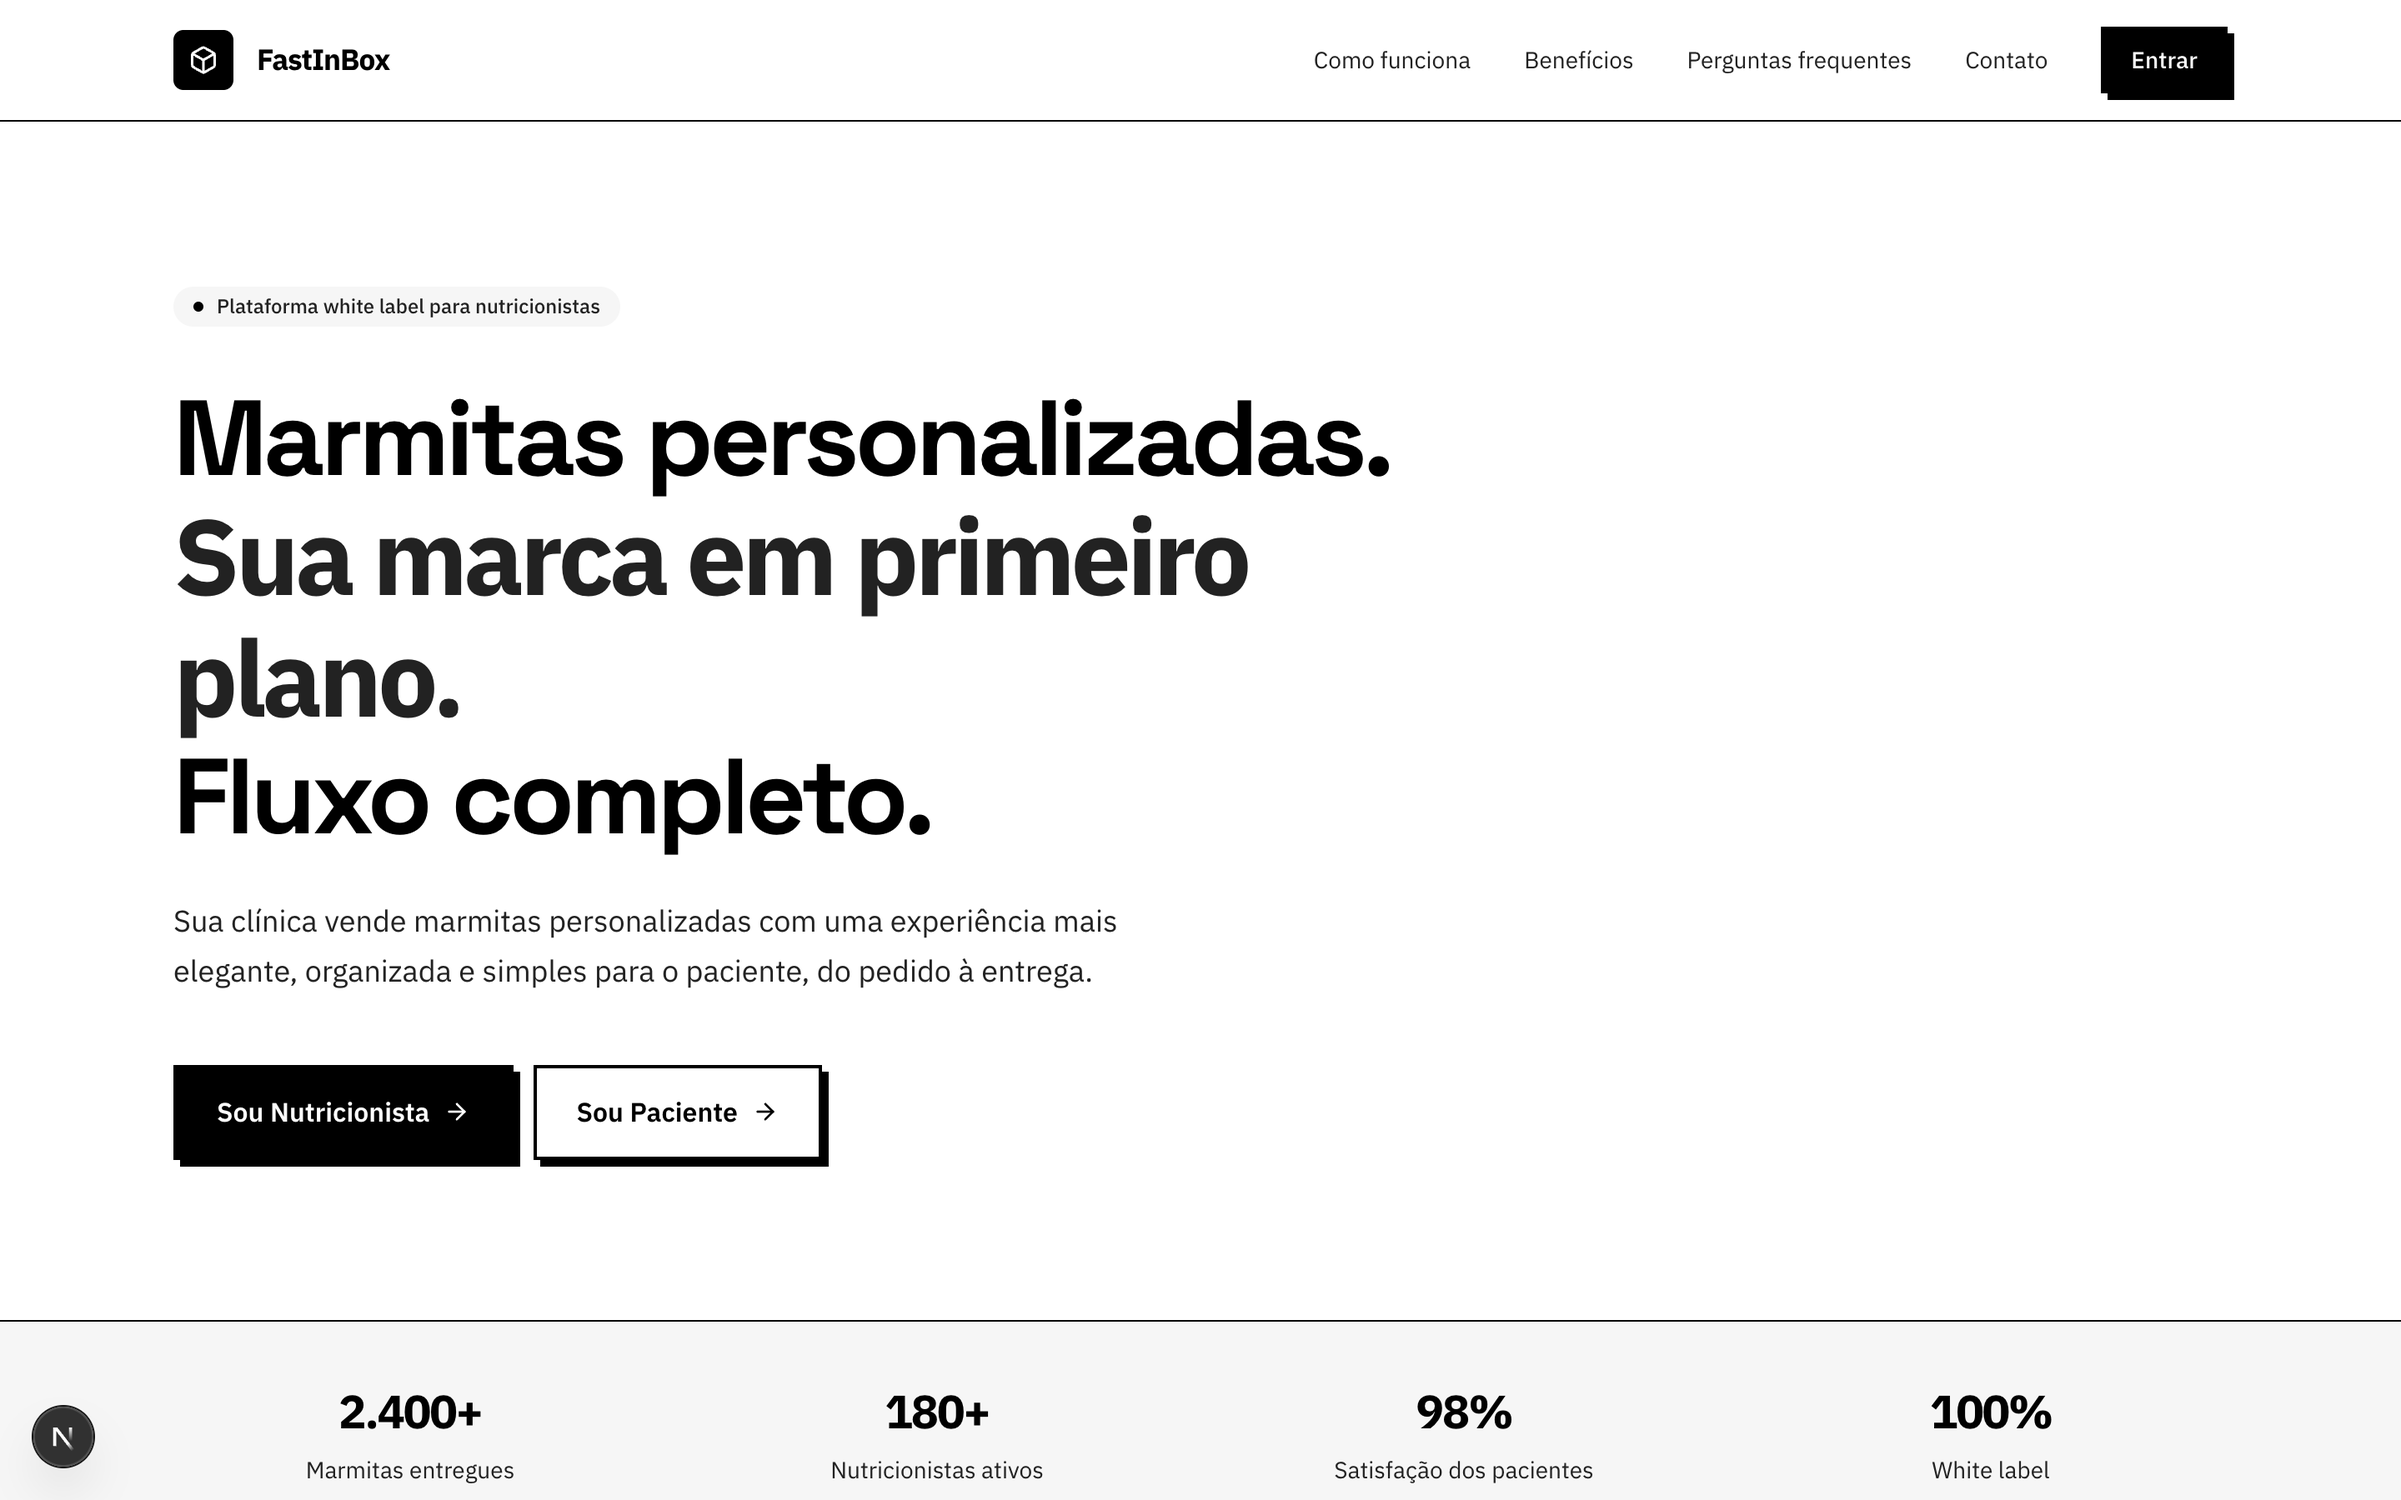
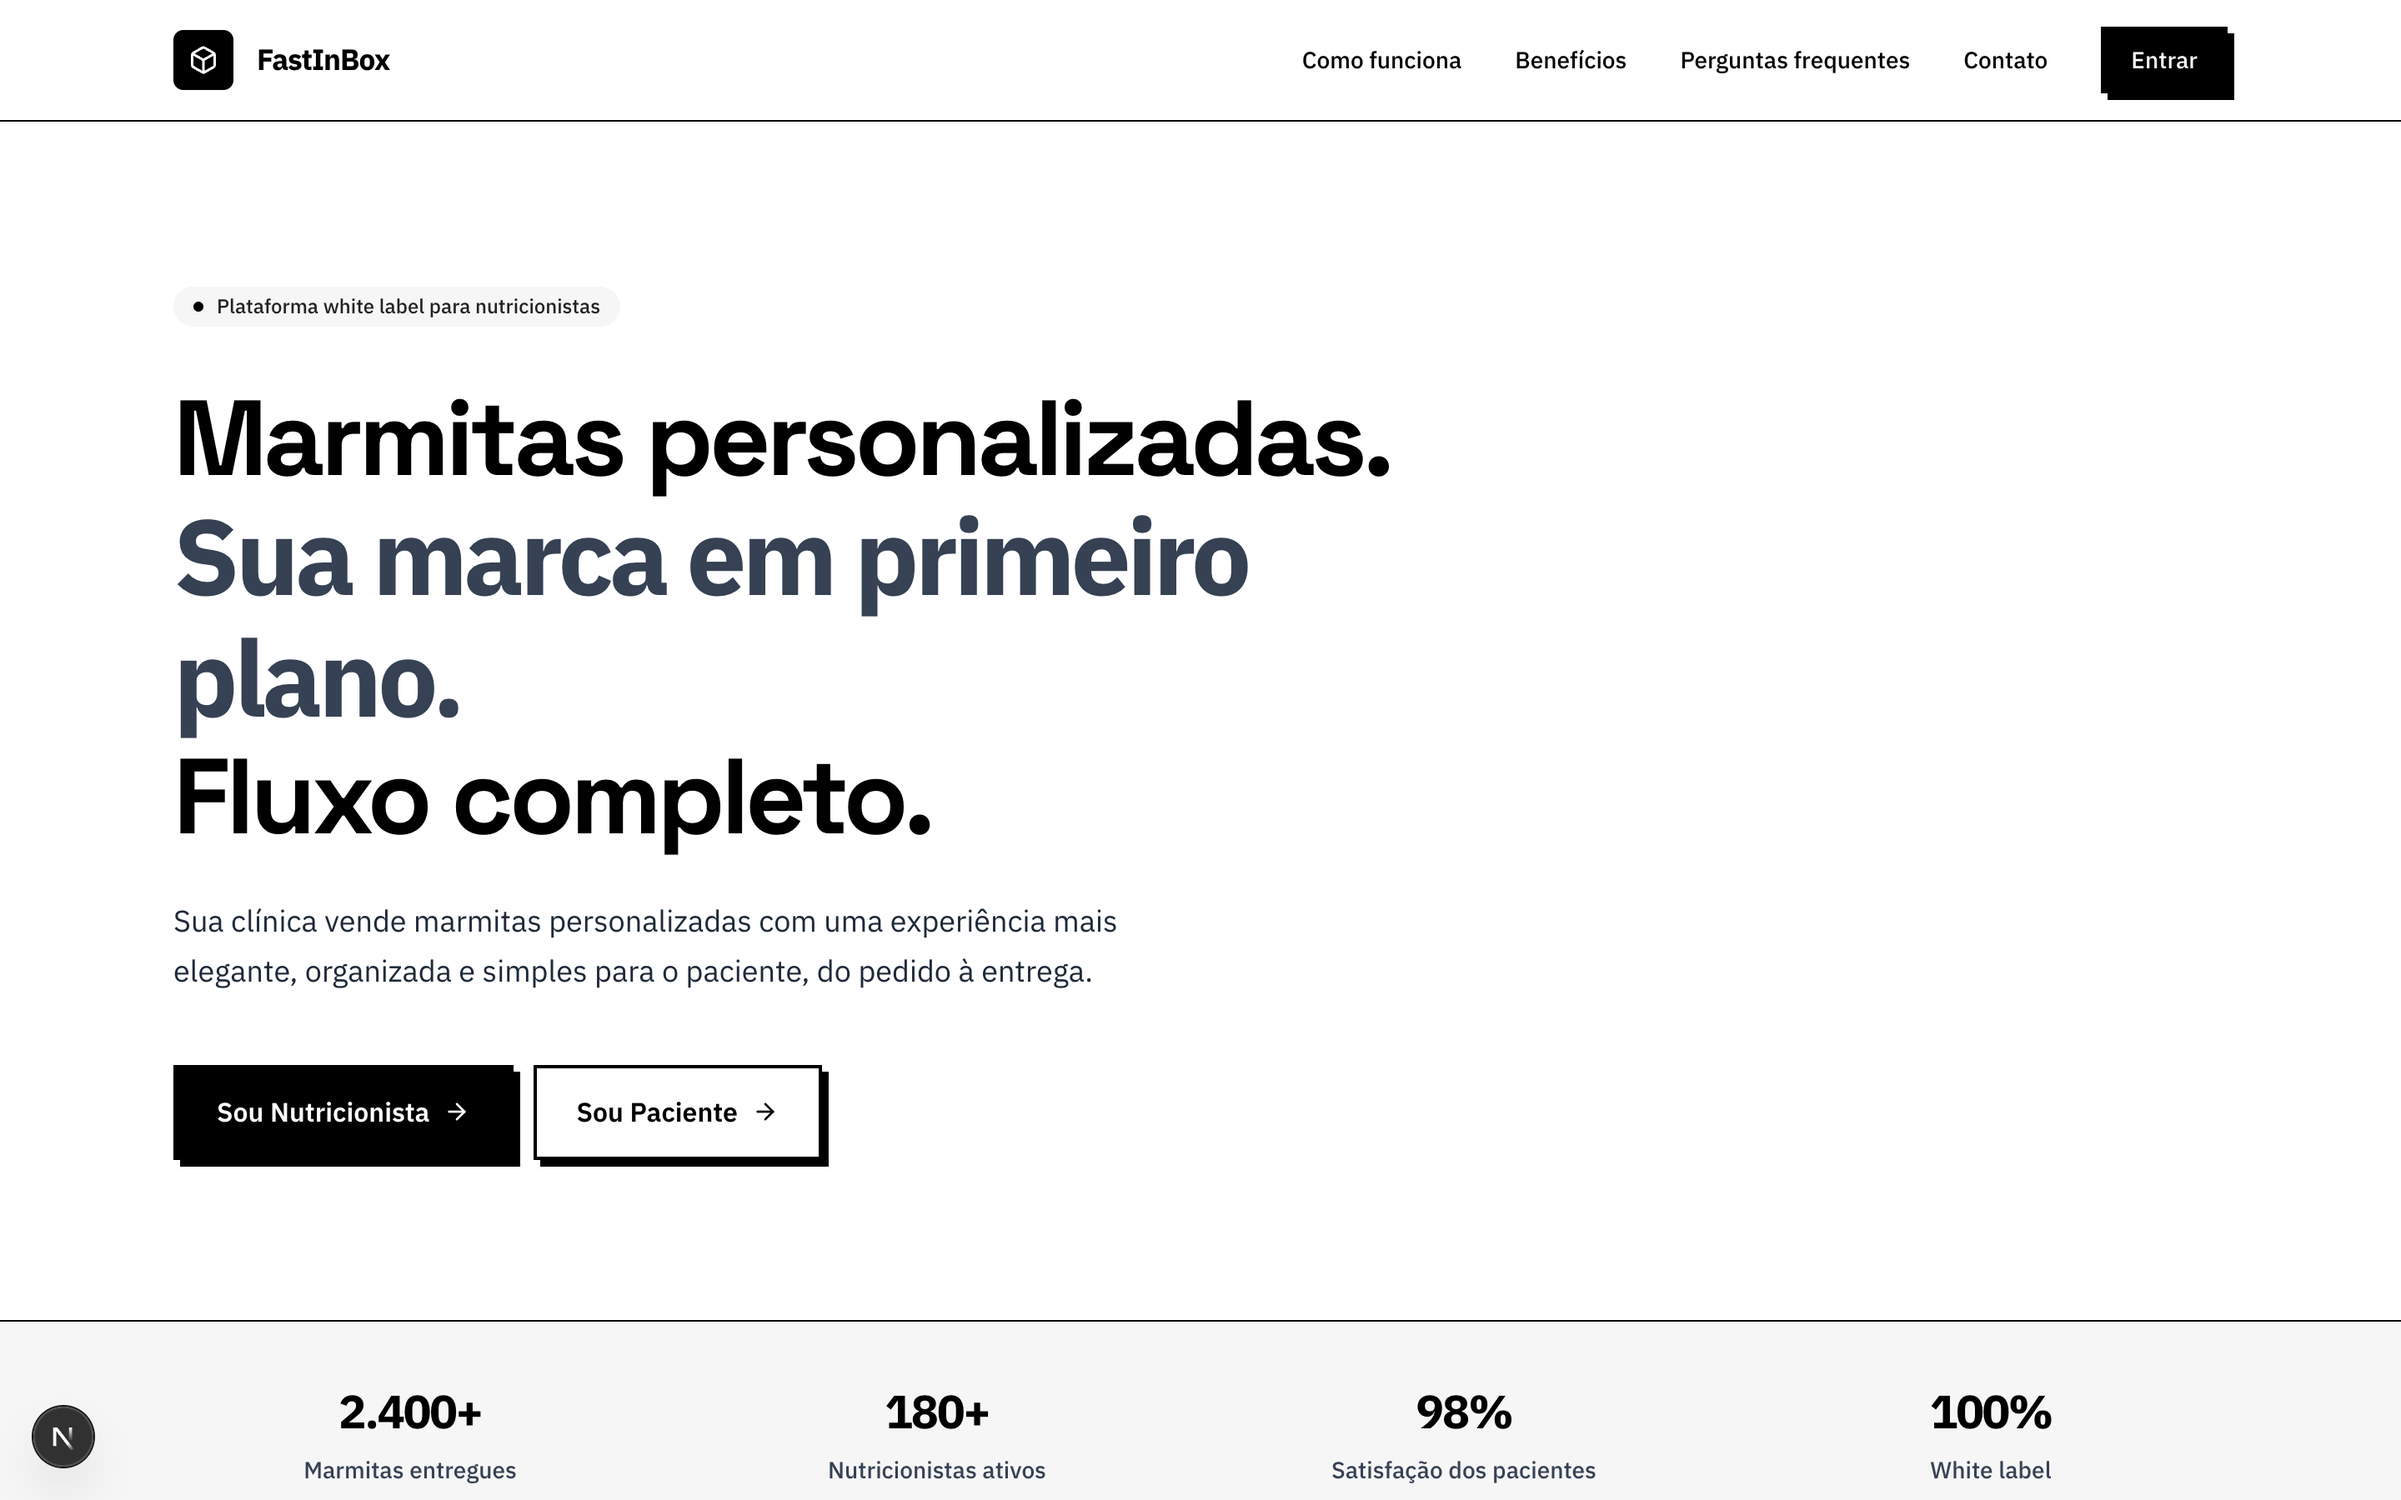
docs(sprint-2): atualizar evidencias com novo contraste e esclarecer escopo tecnico
Regenera 11 prints apos ajuste de contraste nas telas escuras e claras do front. Adiciona nota explicita em Tecnologias Habilitadoras Digitais reforcando que a plataforma nao utiliza IA nem depende desse tipo de tecnologia no MVP.

diff --git a/documents/documento-principal-projeto.html b/documents/documento-principal-projeto.html
@@ -881,10 +881,10 @@
                             <tr><td>Blockchain</td><td>Nao aplicavel ao recorte atual.</td></tr>
                             <tr><td>Realidade Aumentada</td><td>Nao aplicavel ao recorte atual.</td></tr>
                             <tr><td>Realidade Virtual</td><td>Nao aplicavel ao recorte atual.</td></tr>
-                            <tr><td>Robotic Process Automation</td><td>Possivel uso futuro em conciliacao e rotinas administrativas.</td></tr>
-                            <tr><td>Machine Learning</td><td>Planejado para previsao de demanda e recomendacoes operacionais em fases futuras.</td></tr>
+                            <tr><td>Robotic Process Automation</td><td>Fora do escopo do MVP academico; pode ser avaliado apenas para rotinas administrativas em fases posteriores.</td></tr>
+                            <tr><td>Machine Learning</td><td>Fora do escopo do MVP. Nao ha uso nesta entrega nem compromisso tecnico de adotar em fases subsequentes.</td></tr>
                             <tr><td>Deep Learning</td><td>Fora do escopo do MVP.</td></tr>
-                            <tr><td>Inteligencia Artificial</td><td>Aplicacao futura em analytics, previsao e apoio a decisao.</td></tr>
+                            <tr><td>Inteligencia Artificial</td><td>Fora do escopo do MVP. A plataforma nao utiliza IA e a entrega academica nao depende desse tipo de tecnologia.</td></tr>
                             <tr><td>Business Intelligence</td><td>Previsto via Looker Studio no PI IV.</td></tr>
                             <tr><td>Big Data</td><td>Fora do escopo do MVP; pode se tornar relevante apenas em fase de escala multi-clinica.</td></tr>
                         </tbody>
